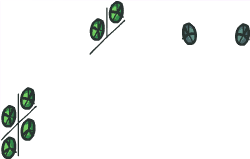
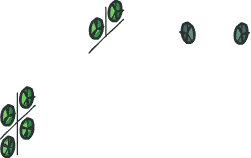
modified map images

diff --git a/free_play.py b/free_play.py
@@ -383,7 +383,7 @@ class Free_play():
 			screen.blit(o23, (1090+a, 806+b))
 			if c%2 == 0:
 				screen.blit(o26, (891+a, 777+b))
-			elif c%3 == 0:
+			else:
 				screen.blit(o27, (891+a, 777+b))
 			screen.blit(oredirect, (1229+a, 771+b))
 

diff --git a/online_muiltiplayer.py b/online_muiltiplayer.py
@@ -633,7 +633,7 @@ class online():
 			screen.blit(o23, (1090+a, 806+b))
 			if c%2 == 0:
 				screen.blit(o26, (891+a, 777+b))
-			elif c%3 == 0:
+			else:
 				screen.blit(o27, (891+a, 777+b))
 			screen.blit(oredirect, (1229+a, 771+b))
 

diff --git a/map_coll.py b/map_coll.py
@@ -356,7 +356,7 @@ while True:
 	screen.blit(o23, (1090+a, 806+b))
 	if c%2 == 0:
 		screen.blit(o26, (891+a, 777+b))
-	elif c%3 == 0:
+	else:
 		screen.blit(o27, (891+a, 777+b))
 	screen.blit(oredirect, (1229+a, 771+b))
 
